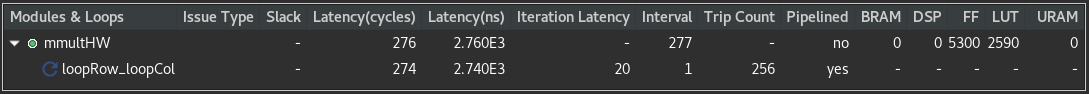
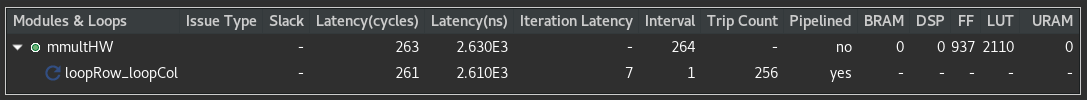
Zcu104

diff --git a/Seccion2/Readme.md b/Seccion2/Readme.md
@@ -142,7 +142,7 @@ Se obtienen los siguientes resultados:
 
 ![Latency](./Imagenes/latency.png)
 
-La latencia de 'loopRow_loopCol' ahora es de 17 y la latencia total aumentó a 273.
+La latencia de 'loopRow_loopCol' ahora es de 17 y la latencia total aumentó a 273. Para las siguientes secciones no se va a utilizar este pragma.
 
 ---
 
@@ -203,5 +203,6 @@ Se obtienen los siguientes resultados:
 
 ![Síntesis con punto fijo](./Imagenes/fixedPoint.png)
 
+Nótese que ya no se están ocupando DSPs. También se utilizan menos LUT y más FF que con *int*.
 
 Ahora pasaremos a la siguiente [sección](../Seccion3/Readme.md) donde veremos como crear un proyecto con Vitis para multiplicar matrices en una FPGA.
